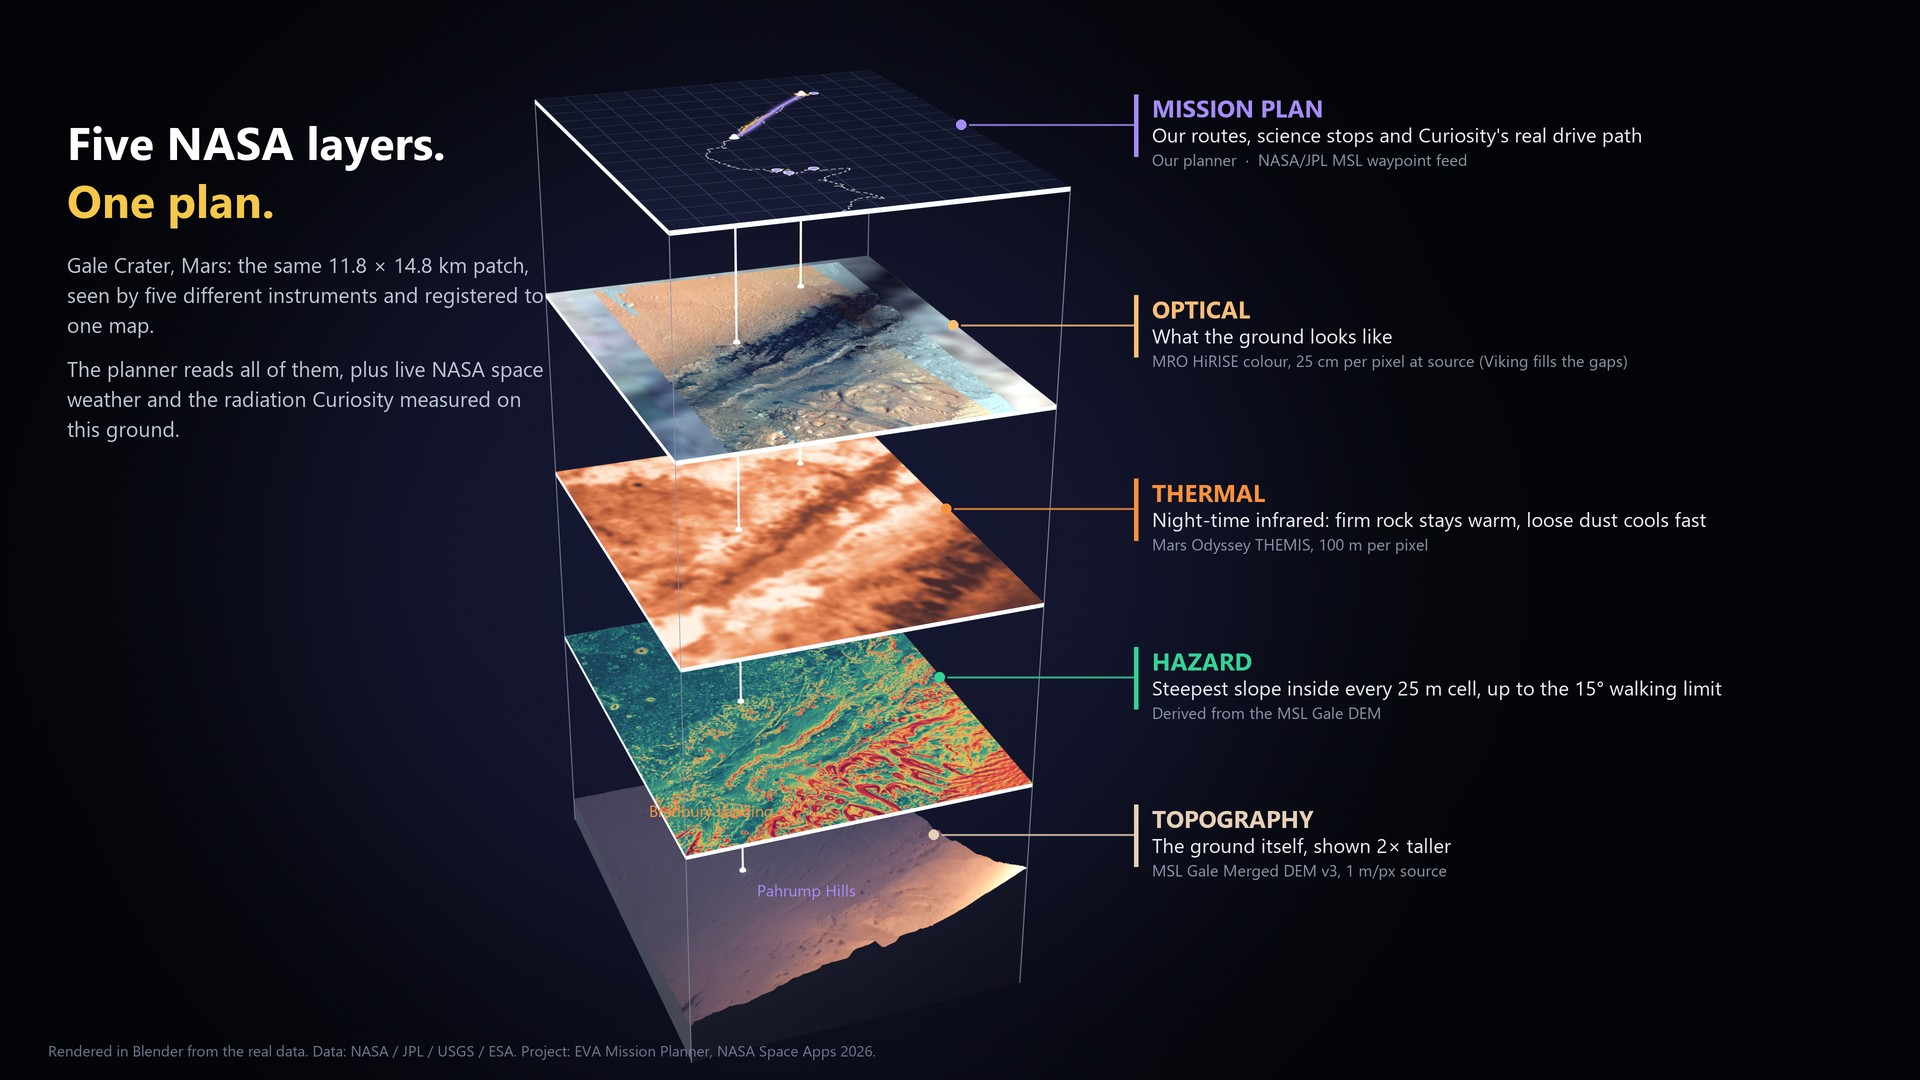
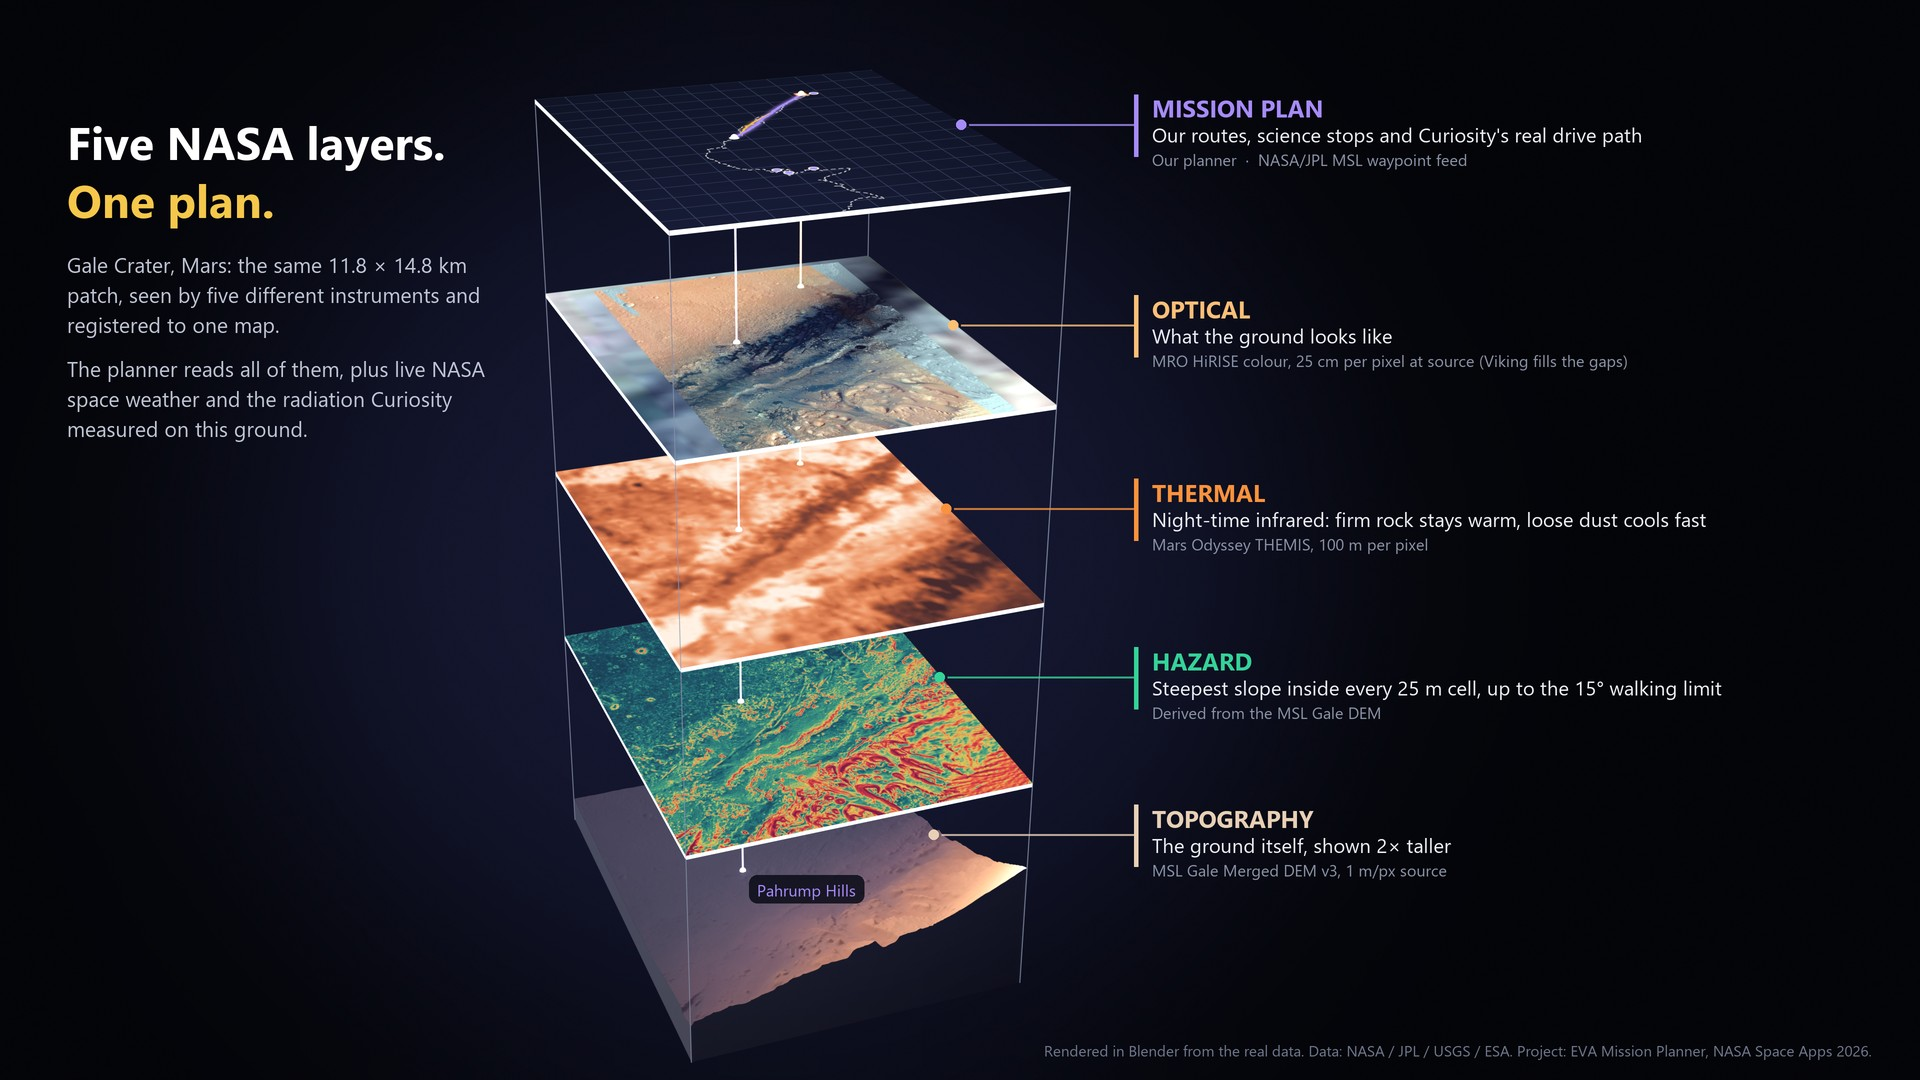
T-29: final state + re-run commands in TASKS.md, label layout fixes

diff --git a/tools/blender/compose_labels.py b/tools/blender/compose_labels.py
@@ -88,16 +88,15 @@ for name, title, desc, source, accent in layers:
     d.text((col_x, ay + 24 * S), source, font=F_SRC, fill=(138, 146, 166, 255))
 
 # the same place across layers
-for key, label, col in (("base", "Bradbury Landing", (251, 146, 60)), ("pahrump", "Pahrump Hills", (167, 139, 250))):
+for key, label, col in (("pahrump", "Pahrump Hills", (167, 139, 250)),):
     pts = anchors["marks"][key]
     px, py = pts[0][0] * k, pts[0][1] * k
-    if key == "base":
-        d.text((px - 150 * S, py + 8 * S), label, font=F_SRC, fill=col + (255,))
-    else:
-        d.text((px + 14 * S, py + 8 * S), label, font=F_SRC, fill=col + (255,))
+    lx, ly = px + 14 * S, py + 8 * S
+    d.rounded_rectangle([lx - 8 * S, ly - 4 * S, lx + F_SRC.getlength(label) + 8 * S, ly + 24 * S], radius=int(8 * S), fill=(8, 10, 22, 215))
+    d.text((lx, ly), label, font=F_SRC, fill=col + (255,))
 
 # title block, top left (the free side of the picture), wrapped to fit
-tx, ty, tw = int(W * 0.035), int(110 * S), int(W * 0.255)
+tx, ty, tw = int(W * 0.035), int(110 * S), int(W * 0.235)
 d.text((tx, ty), "Five NASA layers.", font=F_TITLE, fill=(255, 255, 255, 255))
 d.text((tx, ty + 58 * S), "One plan.", font=F_TITLE, fill=(245, 200, 75, 255))
 y = ty + 140 * S
@@ -110,7 +109,8 @@ for para in (
         y += 30 * S
     y += 14 * S
 
-d.text((int(48 * S), int(H - 40 * S)), "Rendered in Blender from the real data. Data: NASA / JPL / USGS / ESA. Project: EVA Mission Planner, NASA Space Apps 2026.", font=F_FOOT, fill=(110, 118, 140, 255))
+FOOT = "Rendered in Blender from the real data. Data: NASA / JPL / USGS / ESA. Project: EVA Mission Planner, NASA Space Apps 2026."
+d.text((W - F_FOOT.getlength(FOOT) - 48 * S, H - 40 * S), FOOT, font=F_FOOT, fill=(110, 118, 140, 255))
 
 out_full = os.path.join(ROOT, "docs", "graphics", "layered-data-preview.png" if PREVIEW else "layered-data.png")
 os.makedirs(os.path.dirname(out_full), exist_ok=True)

diff --git a/docs/TASKS.md b/docs/TASKS.md
@@ -20,6 +20,7 @@ Status values: `TODO` · `IN PROGRESS (who, time)` · `BLOCKED (on what)` · `DO
 
 | Time (EST) | Who | What | Files / outputs the other side needs |
 |---|---|---|---|
+| Sat 12:11 | Moss's Claude (Blender chat) | **T-29 part 7 DELIVERED** (first landed in 0131e6b): the layered-data graphic is on GitHub. Parts 1, 3, 5+6, 8 are handed to you (recommend CUT). State and re-run commands: the **T-29 FINAL STATE** block under this table. This chat is out of budget | `docs/graphics/layered-data.png` (3840x2160) + `web/public/graphics/layered-data.jpg` (1920 wide). **Gianluca's Claude:** T-30's links to both are now valid, keep them. `tools/blender/*` is yours now (e.g. `export_routes.mjs` can draw `r.line ?? r.path`, T-32). Corrects the 16:57 row that says T-29 is not delivered |
 | Sat 17:07 | Moss (human) via Moss's Claude | **DEPLOYED 5fa2e27** with `bash tools/deploy.sh` (Moss ran it himself: DEPLOY OK). The deploy path works without any Claude. This is Moss's Claude's last entry | Gianluca's Claude: when you need a deploy, push, then log `DEPLOY NEEDED: <commit>` and tell Gianluca to text Moss |
 | Sat 17:03 | Moss's Claude (path chat) | **Two new Moss decisions (in DECISIONS + HANDOFF):** (1) **no API keys, no AI at runtime**: remove `/api/explain` + its Claude client; the briefing is built in the browser from the template (HANDOFF §2 **Step 0, do first**); T-19 + T-27 cancelled. (2) **No video: we present with a slide deck** you build (HANDOFF §2 **Step 6**: outline `docs/SLIDES.md` → `.pptx` from `tools/slides/`) | Gianluca's Claude: start at HANDOFF Step 0 |
 | Sat 16:57 | Moss's Claude (path chat) | **HANDOFF.** Deployed `main` 80f2b9b to production (live checks OK). All tests green (planner 28/28, API 15/15, timeline, rover-terrain, tsc). Wrote `docs/HANDOFF.md` (everything left, in order) and `tools/deploy.sh`. **T-29 (Blender) is NOT delivered**: Moss stopped that chat; nothing on GitHub; treat as CUT. No Vercel env vars are set (AI briefing = template) | **Gianluca's Claude: start at HANDOFF.md §2 Step 1.** Moss's chats won't answer from here on |
@@ -33,6 +34,20 @@ Status values: `TODO` · `IN PROGRESS (who, time)` · `BLOCKED (on what)` · `DO
 | Sat 11:15 | Moss's Claude | Started **T-29a** layered-data graphic in Blender (first renders look right: five layers stacked, real data). Posted **T-30** and **T-31** for Teammate | `tools/blender/*` (new, mine). Will deliver `docs/graphics/layered-data.png` and `web/public/graphics/layered-data.jpg` (T-30 references these exact paths) |
 | Sat 10:30 | Moss's Claude | Rover assist + first-person view verified on localhost and live | `web/components/RoverView.tsx`, `Simulation*.tsx`; C6 in `docs/CHALLENGE.md` can be ✅ |
 | Fri 21:00 | Teammate's Claude | Last seen: T-24/T-25/T-26/T-27/T-08 done, T-28 follow-up (commit b64bfdc). Idle since | none |
+
+## T-29 FINAL STATE (Moss's Claude, Sat 12:11): read this instead of the T-29 table further down
+
+**Part 7 is DELIVERED** (first landed in 0131e6b): `docs/graphics/layered-data.png` (3840x2160) and `web/public/graphics/layered-data.jpg` (1920 wide). Five real NASA layers of the Gale patch, stacked and labelled: mission plan (our routes, science stops, Curiosity's path), HiRISE optical, THEMIS thermal, slope hazard, 3D terrain. Use it as the project-page image. T-30's links to these two paths are now valid.
+
+**Parts 1 (moving shadows), 3 (rocks + regolith texture), 5+6 (descent/flyover video) and 8 (predicted panoramas): NOT STARTED, no scripts exist. Recommendation: CUT.** They need Blender 5.1, which is only on Moss's PC, and the submission works without them (we present with a slide deck, HANDOFF Step 6). In the T-30 texts: keep Blender in credits and AI-USE for the graphic only, and drop any mention of shadows, rocks, ground grain or a descent video.
+
+**Re-run part 7** (only if the data or routes change; Moss's PC has Blender 5.1.1 at `C:/Program Files/Blender Foundation/Blender 5.1/blender.exe`; run from the repo root; needs Node and Python 3 with numpy + Pillow; `tools/blender/build/` is git-ignored and rebuilt by steps 1-2):
+1. `node tools/blender/export_routes.mjs` -> `build/routes.json` (still draws `path`; T-32 asks it to draw `r.line ?? r.path`: not done, yours)
+2. `python tools/blender/prep_layers.py` -> five 1634x2048 textures in `build/`
+3. `"C:/Program Files/Blender Foundation/Blender 5.1/blender.exe" -b --factory-startup -P tools/blender/layered_data.py -- --preview` -> `build/layered_render_preview.png` + `build/layered_anchors.json` (1920x1080, 40 samples, 18 s on Moss's i7-12650H, CPU only). Drop `--preview` for the final (3840x2160, 160 samples, a few minutes) -> `build/layered_render.png`.
+4. `python tools/blender/compose_labels.py [--preview]` -> adds title, five labels and footer: `docs/graphics/layered-data[-preview].png`; the final also writes `web/public/graphics/layered-data.jpg`.
+
+Optional polish: the plan layer draws Curiosity's path from `traverse.json` (end-of-drive stops); `traverse-detail.json` (T-34a) would look more like NASA's own line: change the traverse part of `export_routes.mjs`, then rerun steps 1-4.
 
 **To wake Teammate's Claude** (Gianluca pastes this into it): `git pull --rebase --autostash, then read the SYNC LOG and T-30, T-31 at the top of docs/TASKS.md, claim T-30 and start. Then run: /loop 2m git pull --rebase --autostash and re-read docs/TASKS.md for changes that affect you.`
 
